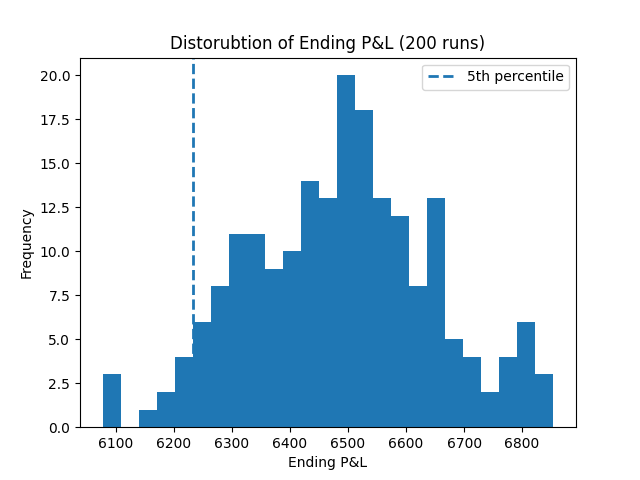
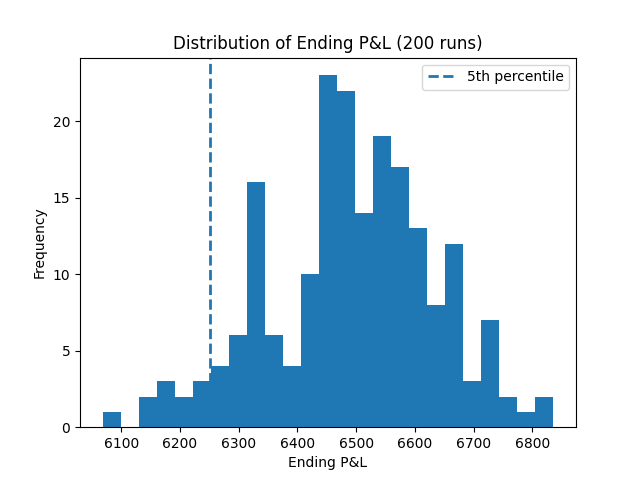
Update README and add histogram image

diff --git a/Day9_histogram.py b/Day9_histogram.py
@@ -66,7 +66,7 @@ def main():
     print(f"Worst max drawdown (per run): {max(max_dds):.2f}")
 
     plt.hist(ending_pnls, bins=25)
-    plt.title("Distorubtion of Ending P&L (200 runs)")
+    plt.title("Distribution of Ending P&L (200 runs)")
     plt.xlabel("Ending P&L")
     plt.ylabel("Frequency")
     plt.axvline(p5, linestyle="--", linewidth=2, label="5th percentile")
